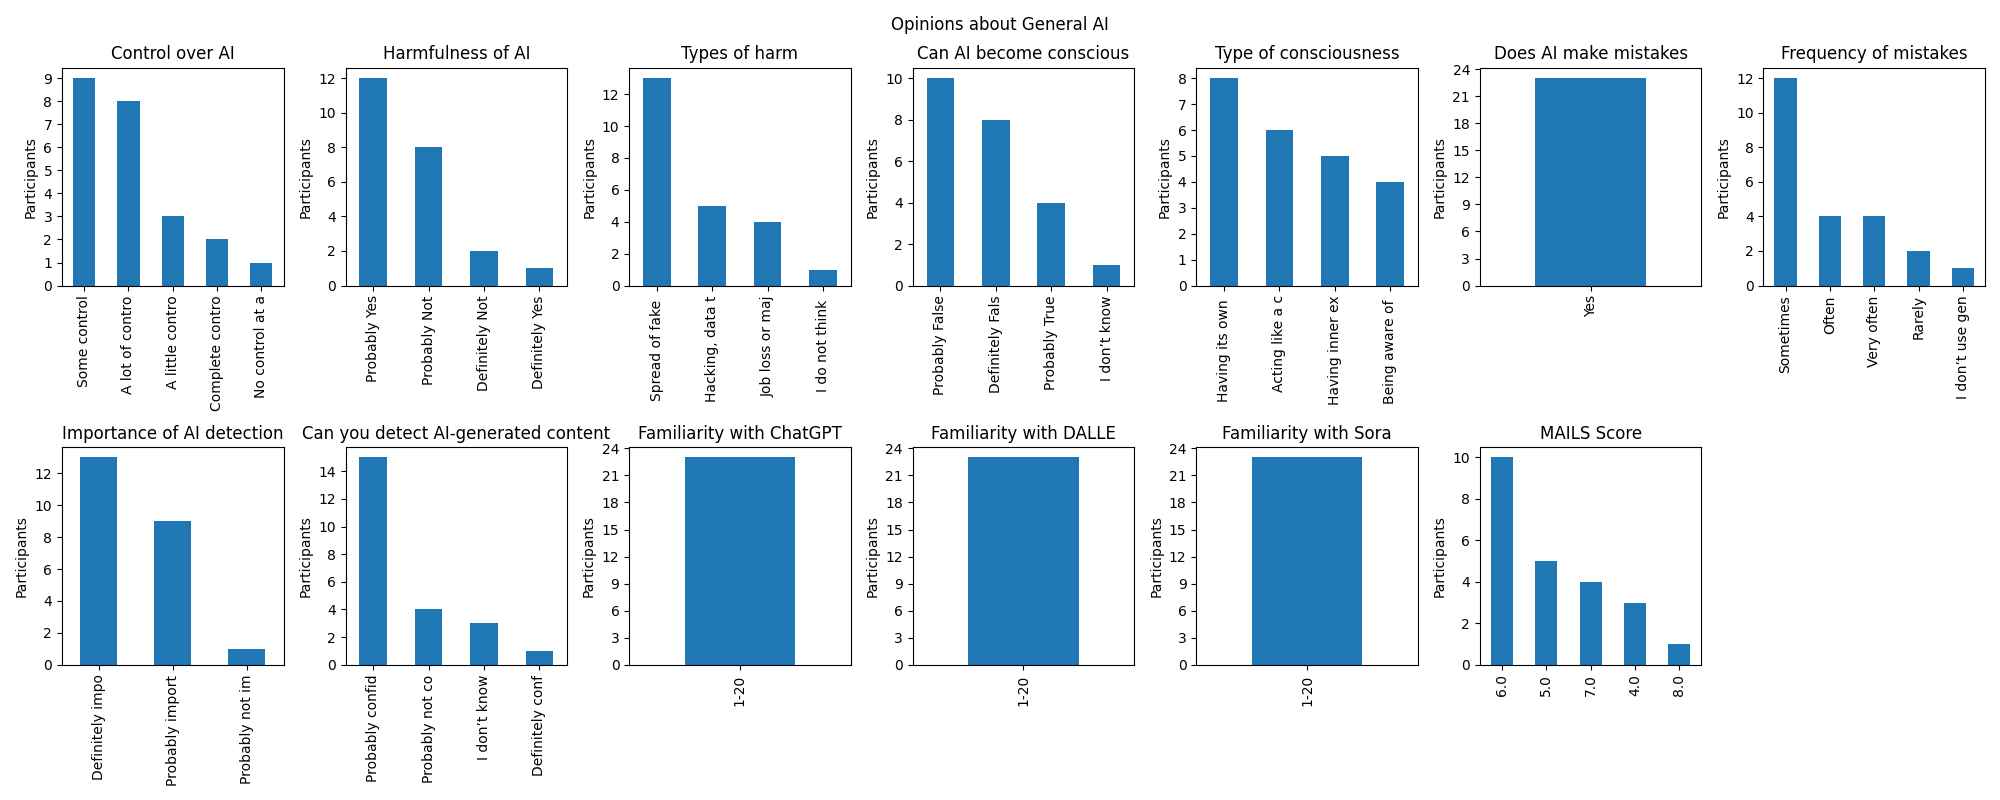
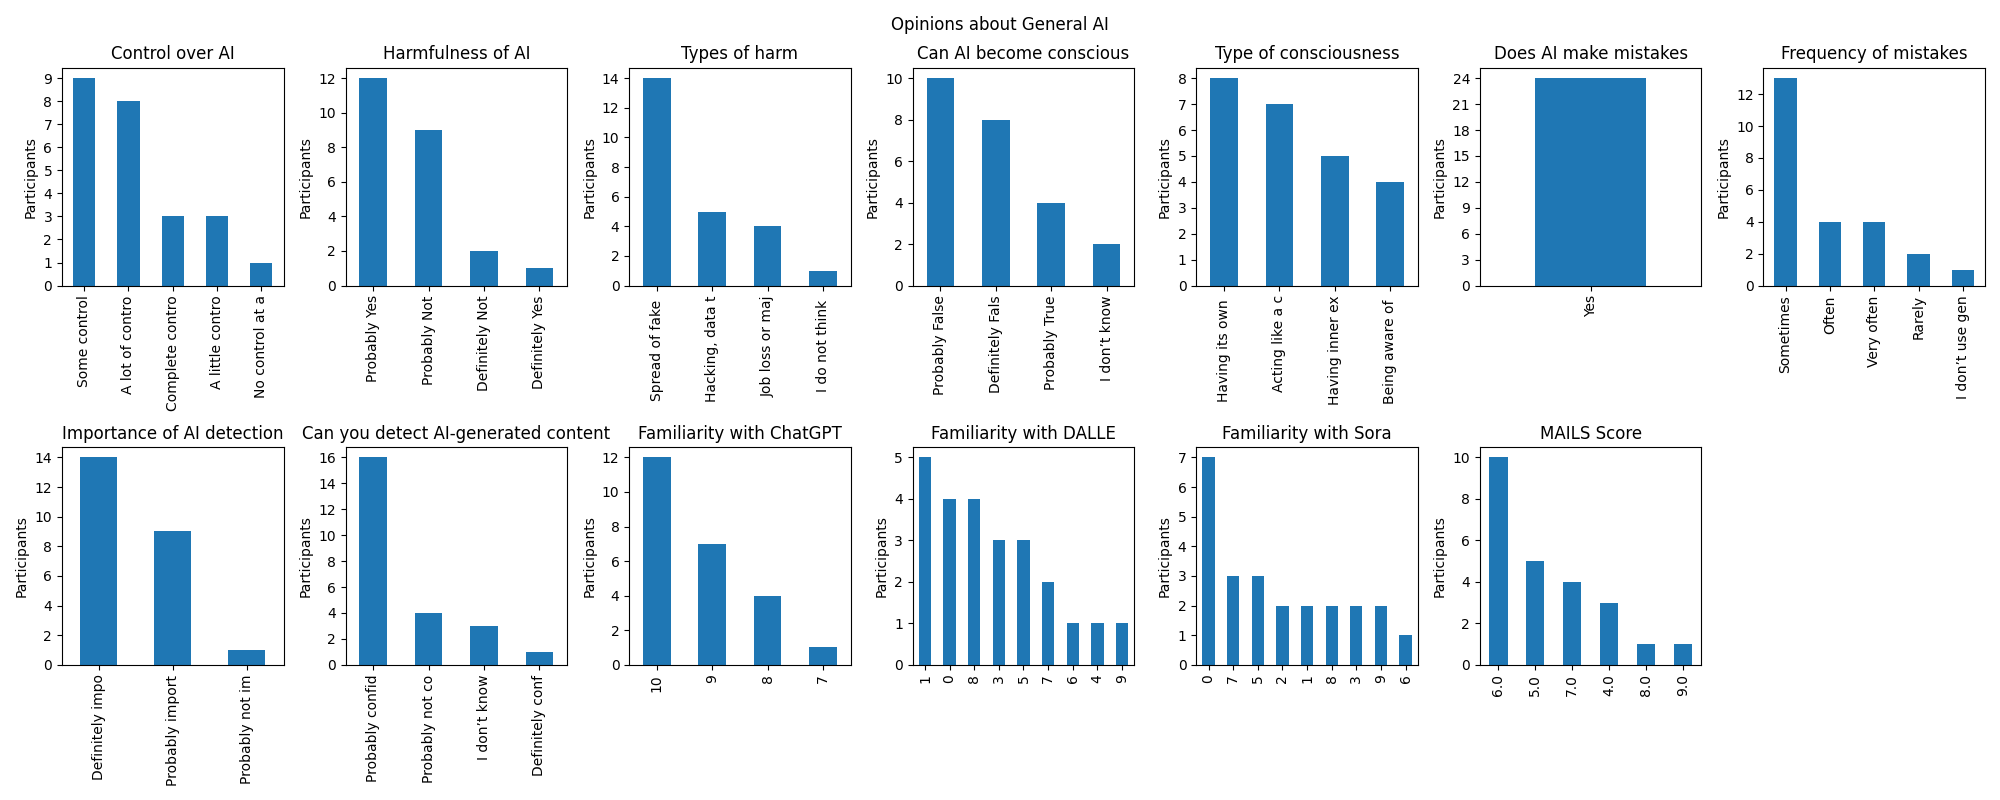
Fix small mistakes

diff --git a/pipeline_full.py b/pipeline_full.py
@@ -76,13 +76,13 @@ def clean_data(df: pd.DataFrame) -> pd.DataFrame:
         print(f"Duplicate responses removed: {remaining_responses - deduplicated_responses}")
         remaining_responses = deduplicated_responses
     
-    duration = df_clean[DURATION_COL].astype(int)
-    df_clean = df_clean[
-        (duration >= MIN_DURATION) &
-        (duration <= MAX_DURATION)
-    ]
-    duration_filtered_responses = len(df_clean)
-    print(f"Responses filtered by duration: {remaining_responses - duration_filtered_responses}")
+    # duration = df_clean[DURATION_COL].astype(int)
+    # df_clean = df_clean[
+    #     (duration >= MIN_DURATION) &
+    #     (duration <= MAX_DURATION)
+    # ]
+    # duration_filtered_responses = len(df_clean)
+    # print(f"Responses filtered by duration: {remaining_responses - duration_filtered_responses}")
 
     return df_clean
 
@@ -270,7 +270,7 @@ def repetition_ratio(text: str) -> float:
 
 
 filename = "export_full_2.csv"
-force_data_cleaning = False
+force_data_cleaning = True
 output_path = Path(f"cleaned_data/{filename}")
 if output_path.exists() and not force_data_cleaning:
 	print(f"Cleaned data already exists at {output_path}, skipping cleaning step.")
@@ -342,7 +342,6 @@ create_bar_plot_screen(
     df_clean,
     GENERAL_AI_MC_QUESTIONS,
     title="Opinions about General AI",
-    bin_numeric_list=("q27",),
 )
 
 CHATGPT_OPEN_QUESTIONS = {
